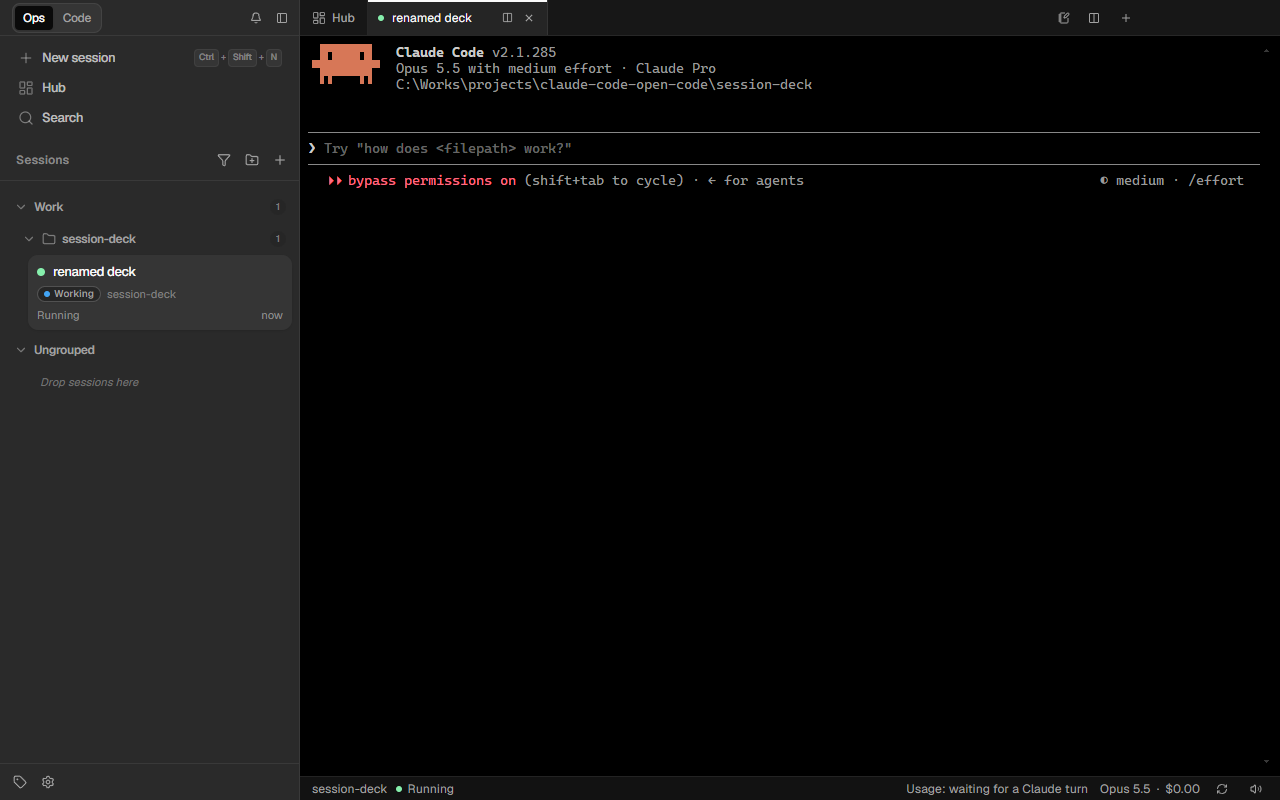
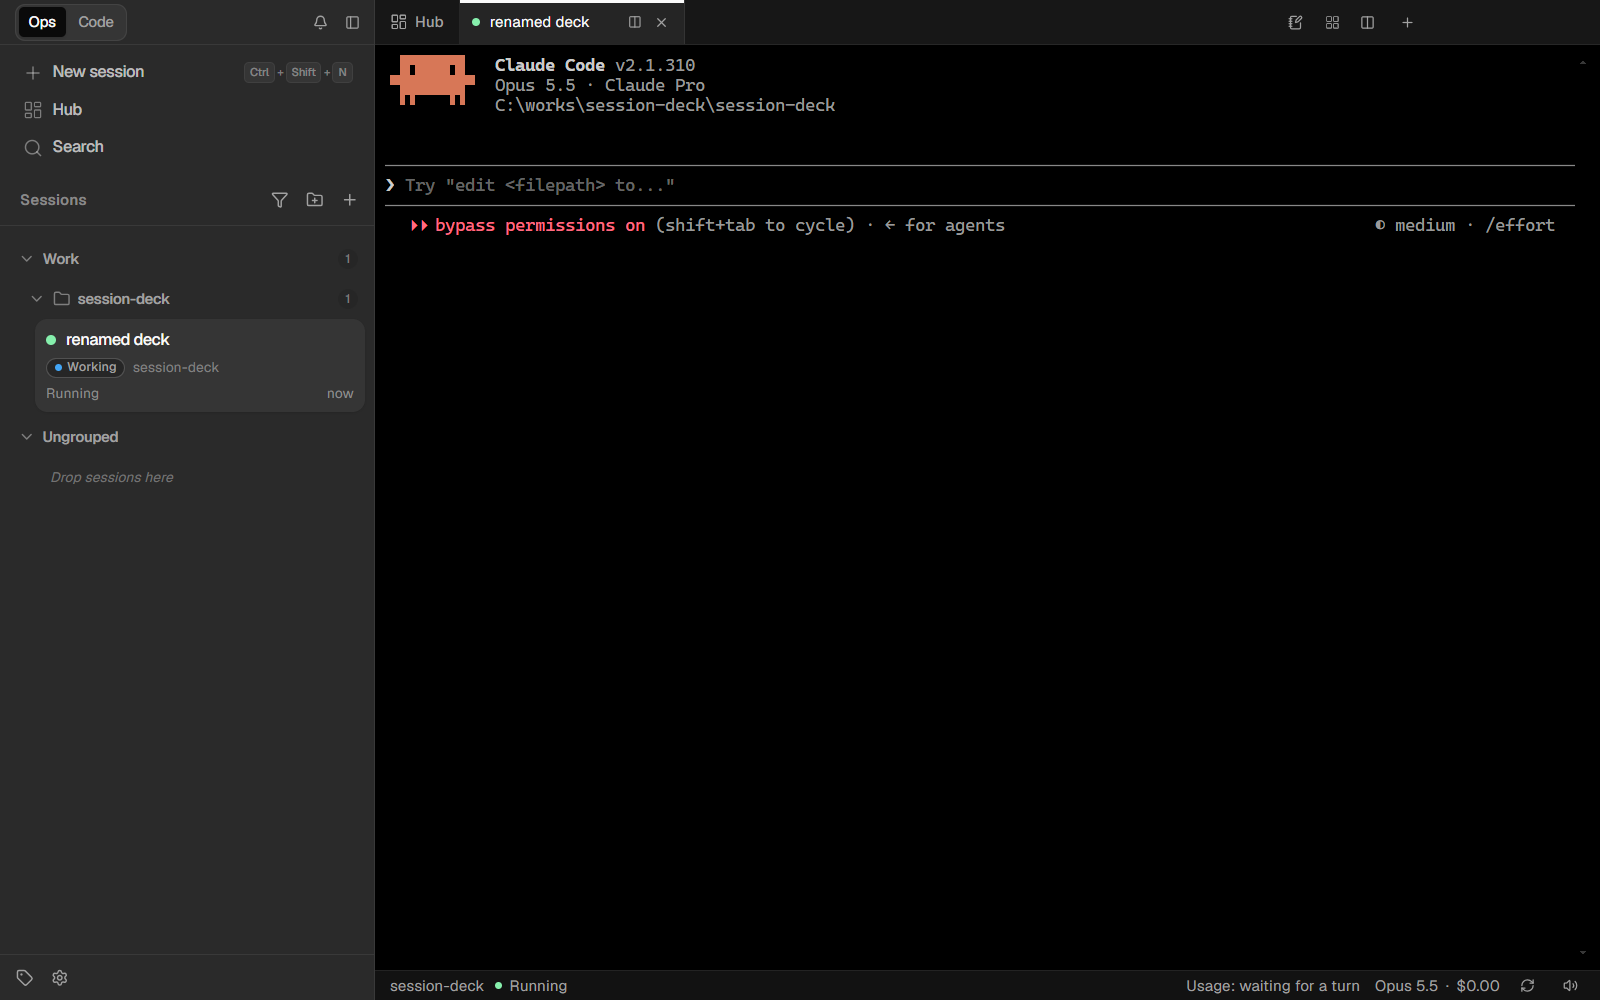
docs: point the agent entry points at docs/FEATURES.md
AGENTS.md and CLAUDE.md now list docs/FEATURES.md (feature tree + rules /
code path / tests matrices) in their read-first order, and CLAUDE.md asks for
the matching FEATURES row when a feature ships. Also refreshes the tracked
visual-review screenshot (scripts/e2e-screenshot.png) from the latest run.

diff --git a/CLAUDE.md b/CLAUDE.md
@@ -5,14 +5,15 @@ Electron desktop app (an Orca-like, narrower tool) for running and managing many
 ## Read first
 1. `docs/DECISIONS.md`: what the user decided (product and working rules). Do not re-ask or undo these.
 2. `HANDOFF.md`: current state of the code, per feature.
-3. `docs/CODEMAP.md`: which folder and file does what.
-4. `docs/LESSONS.md`: gotchas that already cost time.
-5. `DESIGN.md` (UI must look like Orca), `PLAN.md` (original architecture), `README.md` (run/test).
+3. `docs/FEATURES.md`: the feature tree + matrices — find a feature's rules, code path and tests in one lookup.
+4. `docs/CODEMAP.md`: which folder and file does what.
+5. `docs/LESSONS.md`: gotchas that already cost time.
+6. `DESIGN.md` (UI must look like Orca), `PLAN.md` (original architecture), `README.md` (run/test).
 
 ## Keep the knowledge base current (required)
 - When the user decides something (picks an option, says yes/no to a feature, sets a rule), add it to `docs/DECISIONS.md` in the same turn, with their words.
 - When a bug's cause was not obvious, add it to `docs/LESSONS.md`.
-- When a feature ships, update its section in `HANDOFF.md`.
+- When a feature ships, update its section in `HANDOFF.md` and its row in `docs/FEATURES.md`.
 - When a folder or key file is added, moved or removed, update `docs/CODEMAP.md`.
 - `AGENTS.md` points other agents (OpenCode workers) here; keep it in sync with this list.
 - Commit these docs with the feature.

diff --git a/AGENTS.md b/AGENTS.md
@@ -5,8 +5,9 @@ Read `CLAUDE.md` first. It is the project's entry point for every agent, not onl
 Knowledge base:
 1. `docs/DECISIONS.md`: the user's decisions and working rules. Do not undo them.
 2. `HANDOFF.md`: current state, one section per feature.
-3. `docs/CODEMAP.md`: which folder and file does what.
-4. `docs/LESSONS.md`: gotchas that already cost time.
-5. `DESIGN.md` (Orca look), `PLAN.md` (architecture), `README.md` (run/test).
+3. `docs/FEATURES.md`: feature tree + matrices (rules, code path, tests per feature).
+4. `docs/CODEMAP.md`: which folder and file does what.
+5. `docs/LESSONS.md`: gotchas that already cost time.
+6. `DESIGN.md` (Orca look), `PLAN.md` (architecture), `README.md` (run/test).
 
 If you were given a task brief, the brief's SCOPE wins: edit only the files it names, even where these docs suggest more.
